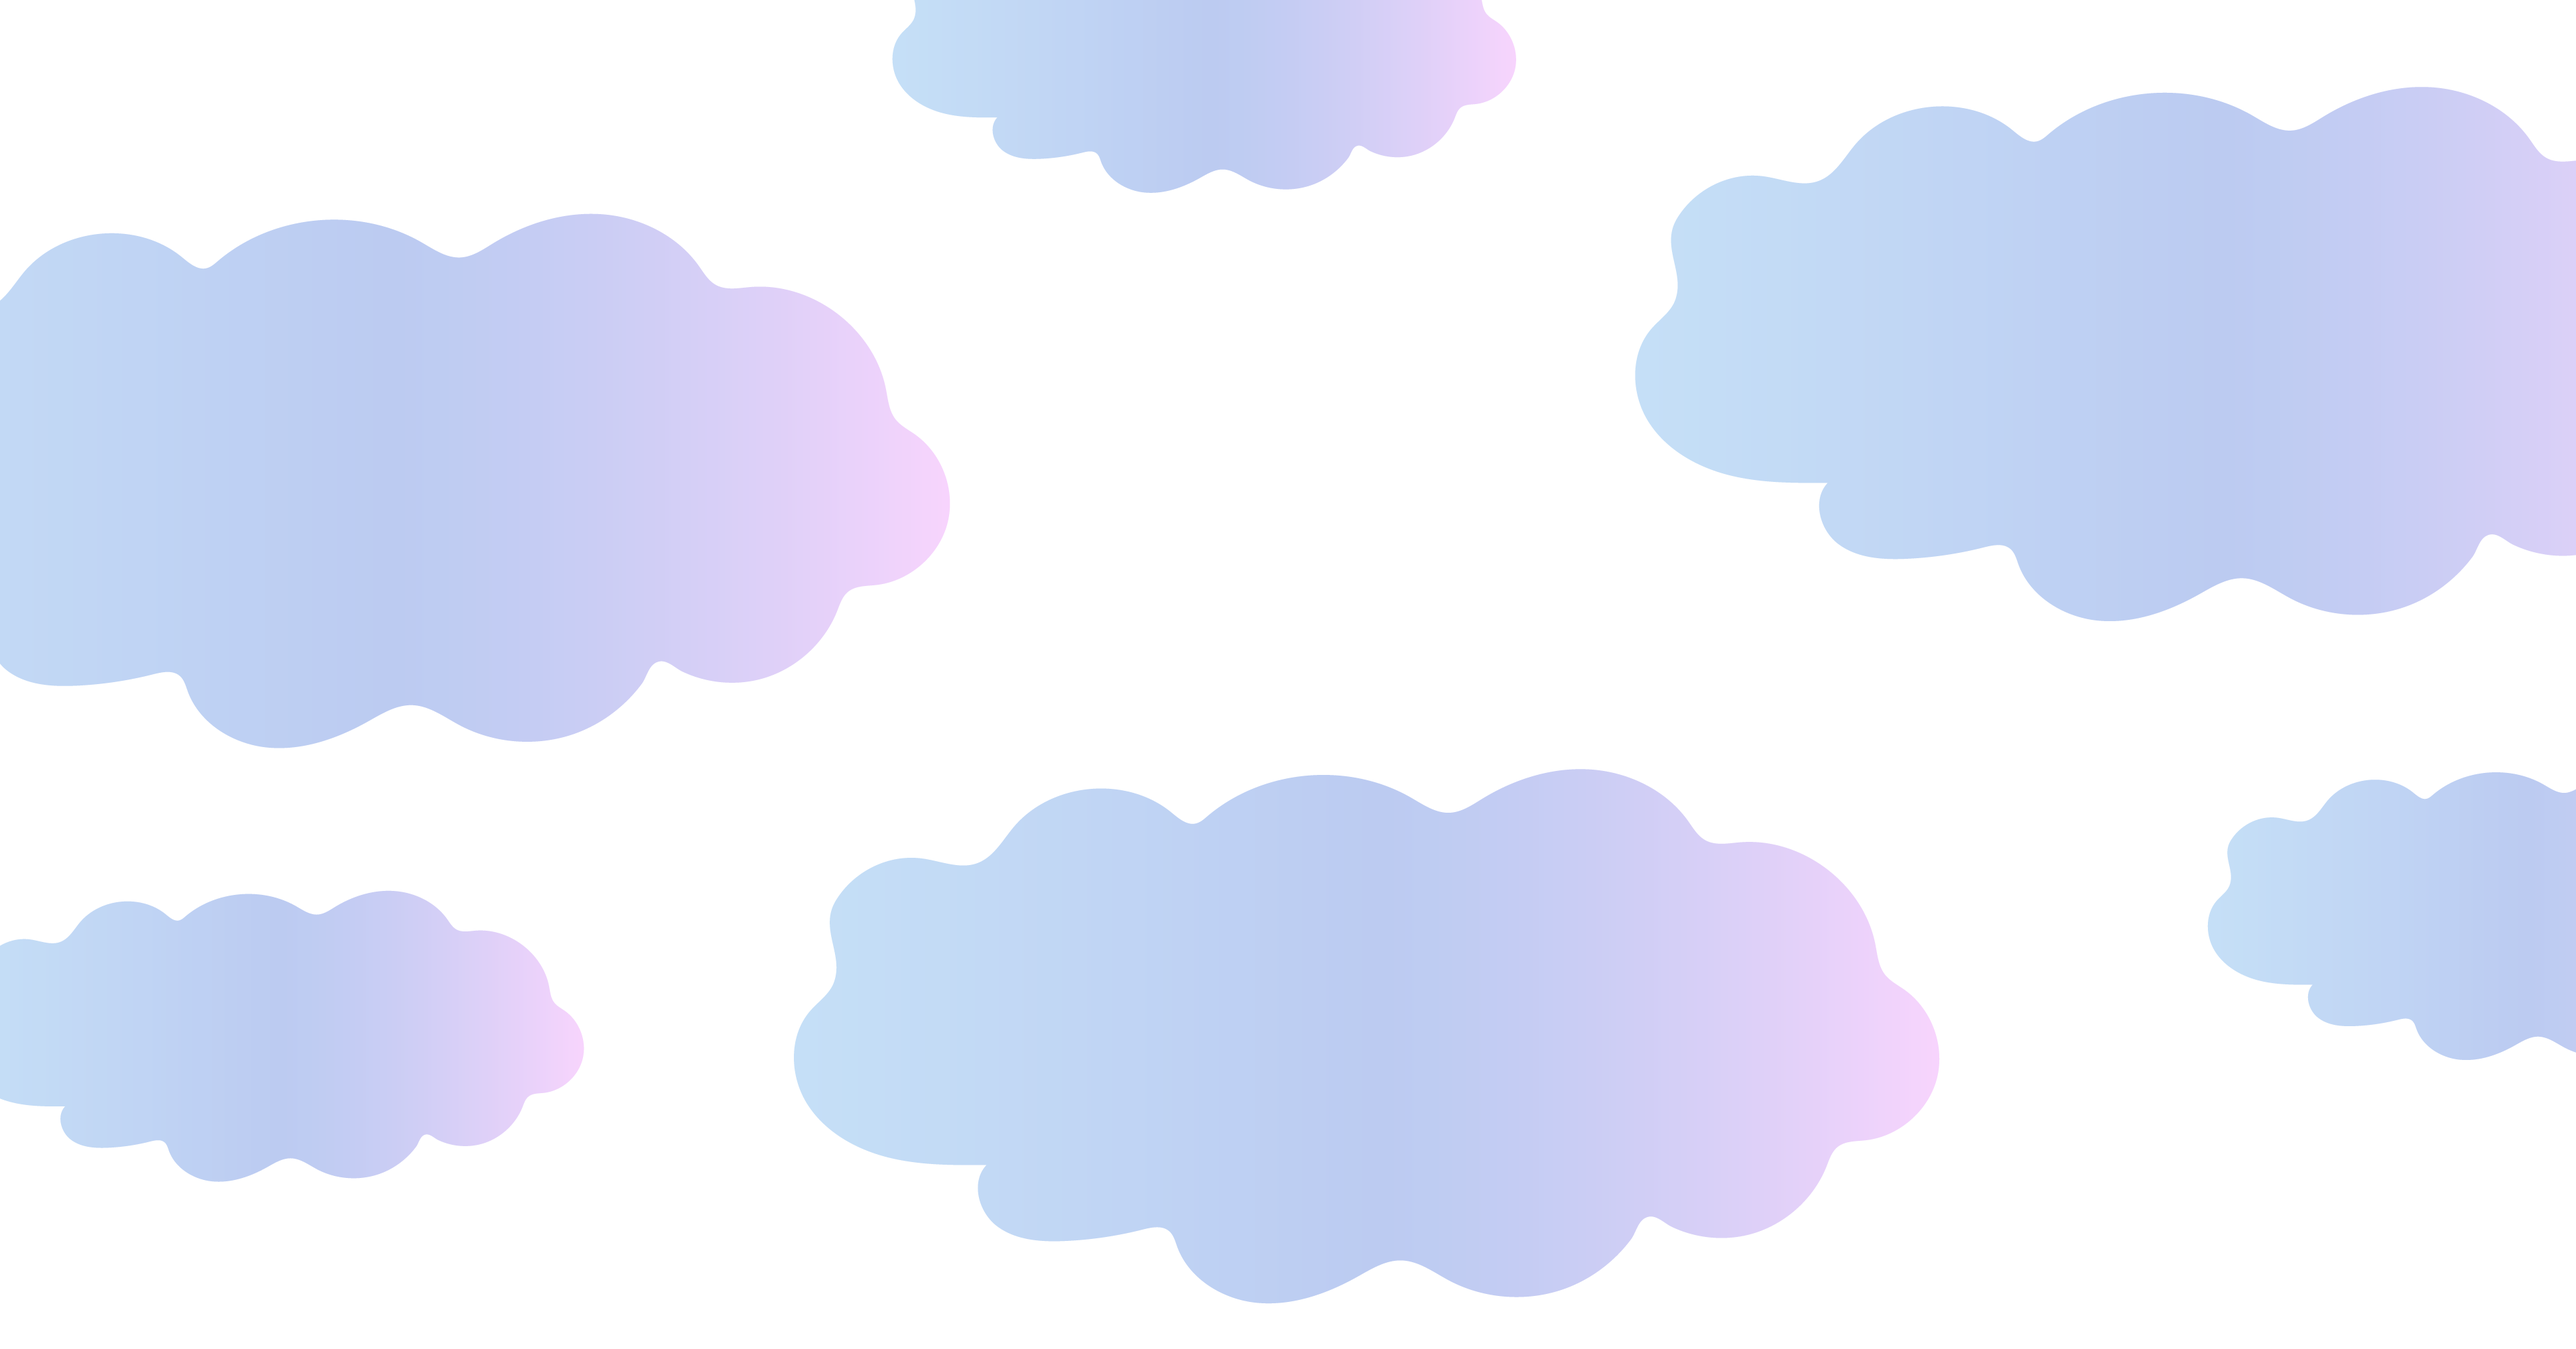
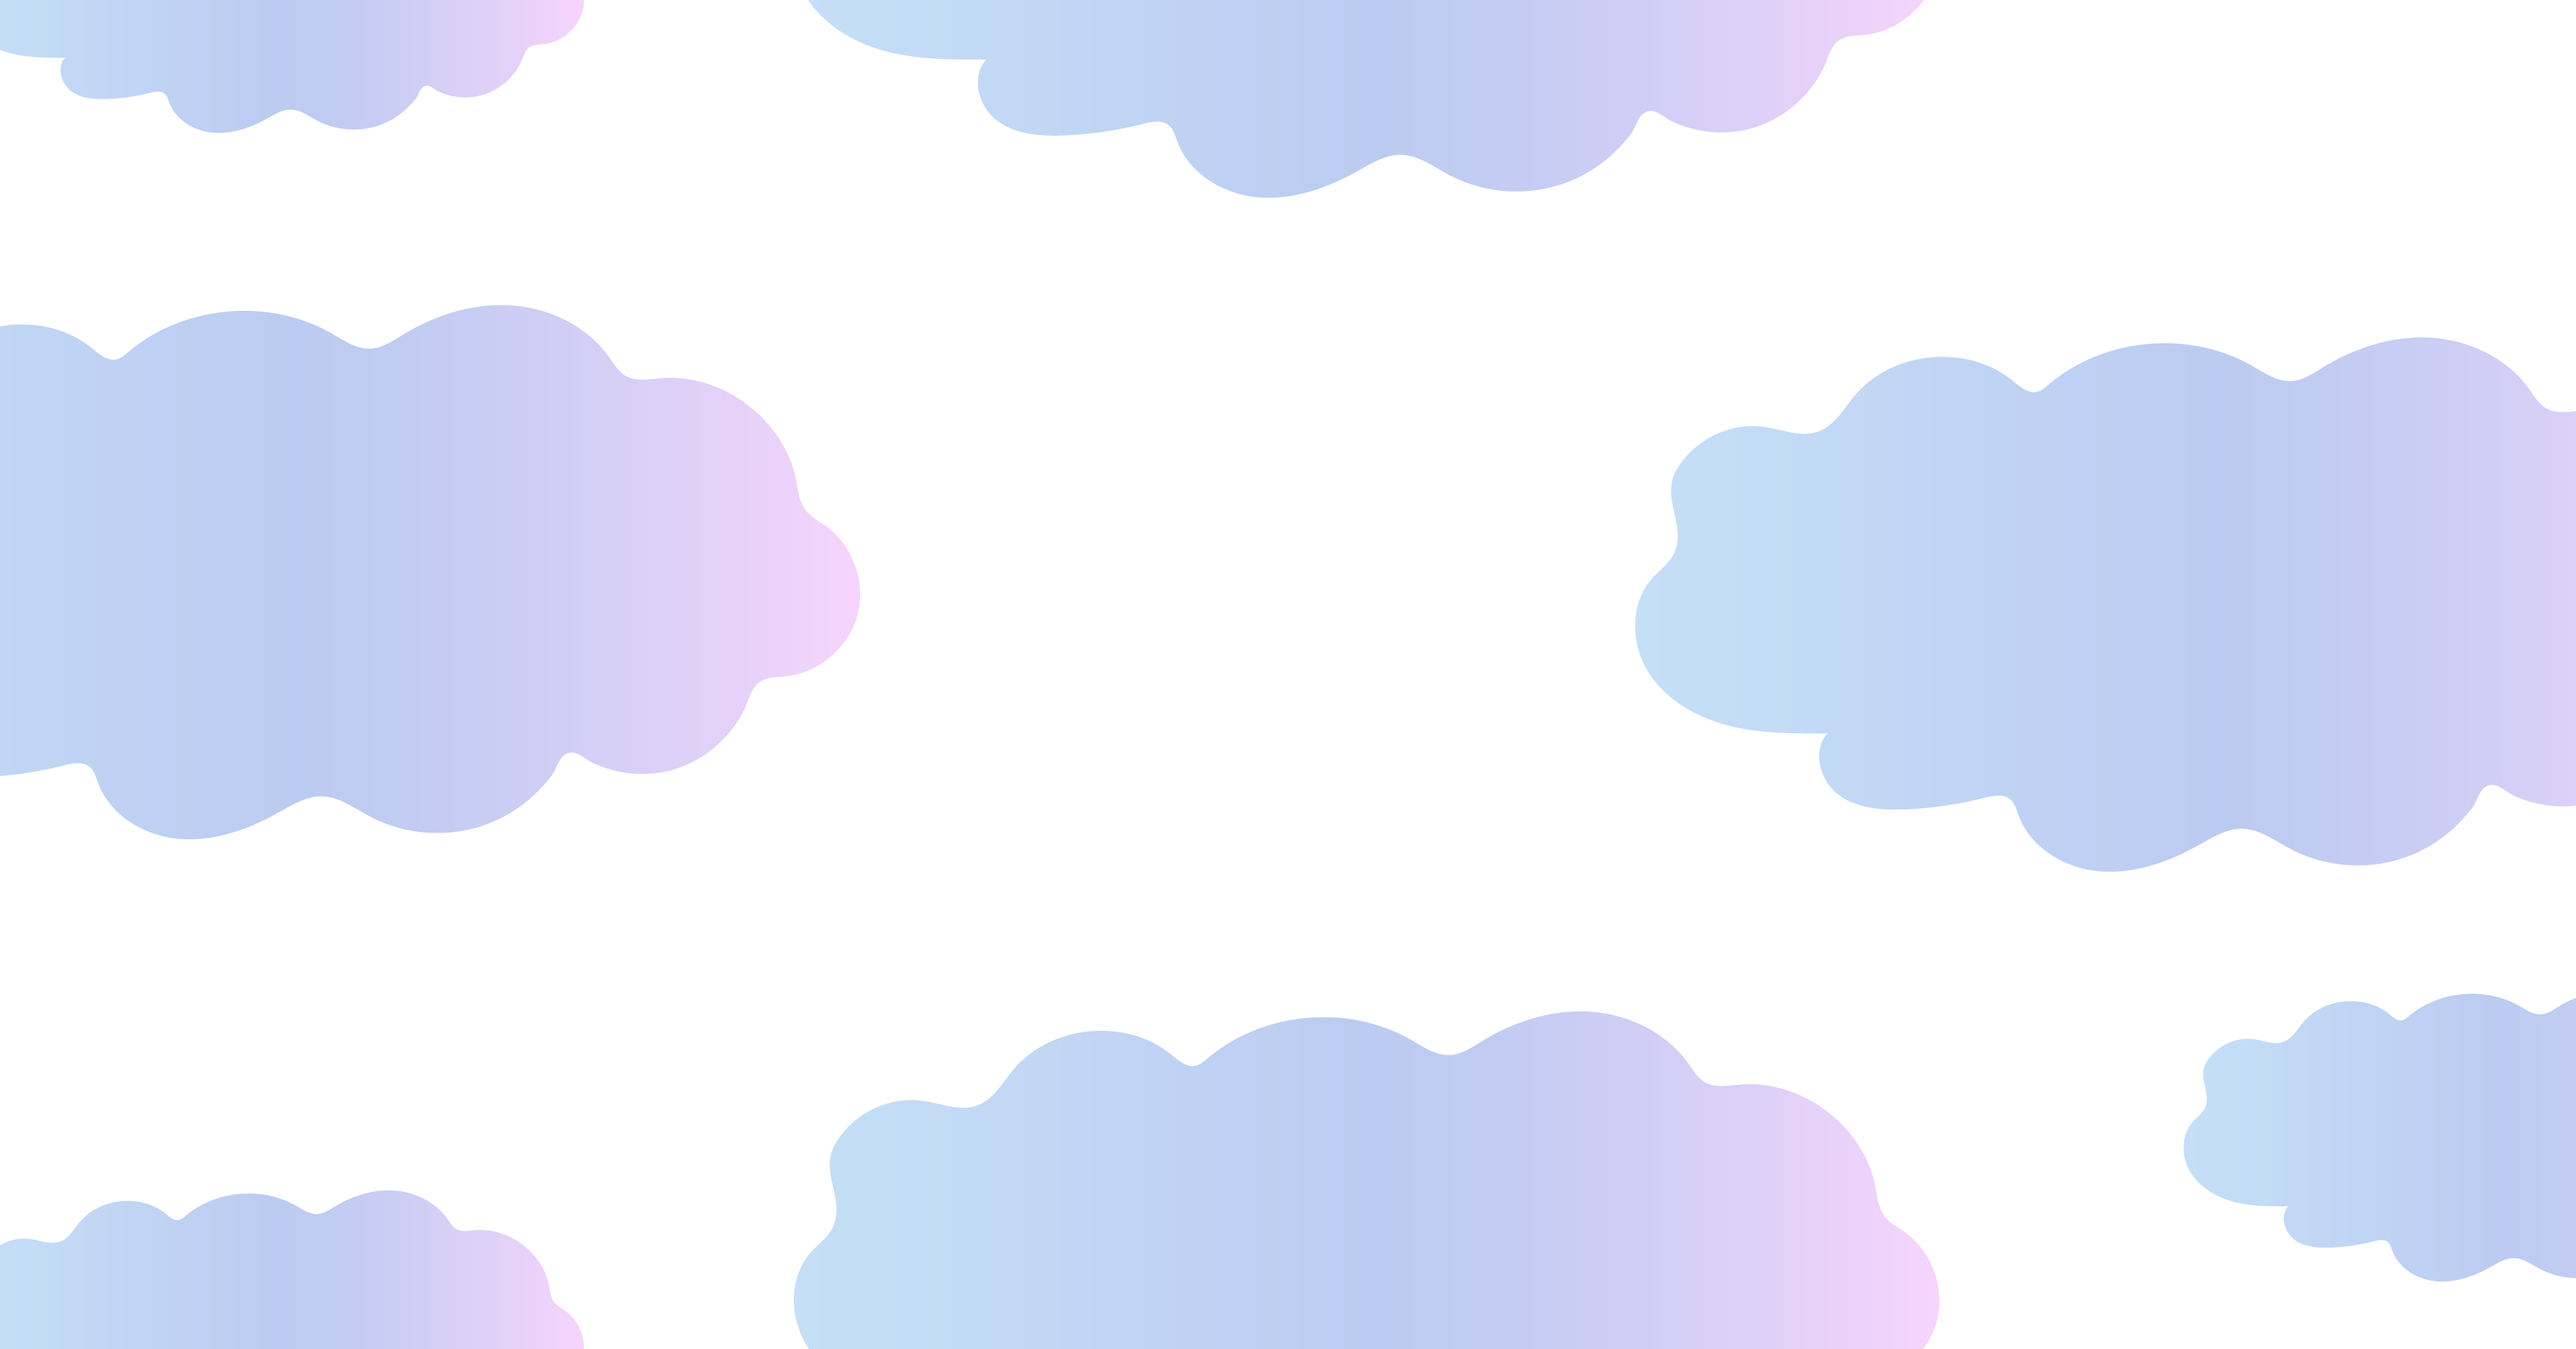
more error handling

diff --git a/routers/project-router.js b/routers/project-router.js
@@ -1,17 +1,14 @@
 const express = require("express");
 const db = require("../db.js");
-const fileUpload = require("express-fileupload");
+const pathModule = require("path");
 const fs = require("fs");
-
 const router = express.Router();
-
-const app = express();
-app.use(fileUpload());
 
 // Variables
 const titleMaxLength = 40;
 const descriptionMaxLenght = 1000;
-const path = __dirname + "../public/uploads/";
+let oneStepBackInDir = pathModule.join(__dirname, "../");
+const path = oneStepBackInDir + "public/uploads/";
 
 // Calculate today's date
 const today = new Date();
@@ -161,29 +158,33 @@ router.post("/create", function (request, response) {
 router.get("/edit/:id", function (request, response) {
   const id = request.params.id;
 
-  db.getProjectById(id, function (error, project) {
+  db.getProjectById(id, function (error, project, category) {
     // The variable for the selected date gets true
-    let illustrationSelected =
-      project.projCategory === "Illustration" ? true : false;
-    let gameSelected =
-      project.projCategory === "Game development" ? true : false;
-    let websiteSelected = project.projCategory === "Website" ? true : false;
-    let graphicDesignSelected =
-      project.projCategory === "Graphic design" ? true : false;
+    if (project != undefined) {
+      let illustrationSelected =
+        project.projCategory === "Illustration" ? true : false;
+      let gameSelected =
+        project.projCategory === "Game development" ? true : false;
+      let websiteSelected = project.projCategory === "Website" ? true : false;
+      let graphicDesignSelected =
+        project.projCategory === "Graphic design" ? true : false;
 
-    const errorMessages = [];
-    if (error) {
-      errorMessages.push("Internal server error");
+      const errorMessages = [];
+      if (error) {
+        errorMessages.push("Internal server error");
+      }
+      const model = {
+        project,
+        currentDate,
+        illustrationSelected,
+        gameSelected,
+        websiteSelected,
+        graphicDesignSelected,
+      };
+      response.render("edit-project.hbs", model);
+    } else {
+      response.render("edit-project.hbs");
     }
-    const model = {
-      project,
-      currentDate,
-      illustrationSelected,
-      gameSelected,
-      websiteSelected,
-      graphicDesignSelected,
-    };
-    response.render("edit-project.hbs", model);
   });
 });
 

diff --git a/routers/blog-router.js b/routers/blog-router.js
@@ -1,6 +1,7 @@
 const express = require("express");
 const db = require("../db.js");
 const fs = require("fs");
+const pathModule = require("path");
 
 const router = express.Router();
 
@@ -8,7 +9,10 @@ const router = express.Router();
 const titleMaxLength = 40;
 const descriptionMaxLenght = 1000;
 const postPerPage = 5;
-const path = __dirname + "/public/uploads/";
+let oneStepBackInDir = pathModule.join(__dirname, "../");
+const path = oneStepBackInDir + "public/uploads/";
+
+console.log(path);
 
 // Calculate today's date
 const today = new Date();

diff --git a/public/main.css b/public/main.css
@@ -270,8 +270,8 @@ a.breadcrumb-link{
 
 /* Locked / page not found page */
 
-.clouds-picture {
-  max-width: 100vw;
+.clouds-background {
+  max-height: 100vh;
   opacity: 60%;
   z-index: -1;
   filter: grayscale(100%);
@@ -324,9 +324,11 @@ a.breadcrumb-link{
   }
   .greeting {
     font-size: 30px;
+    background-color: var(--white);
   }
   .greeting-p2 {
     font-size: 25px;
+    background-color: var(--white);
   }
   .main-content {
     margin-top: 100px;
